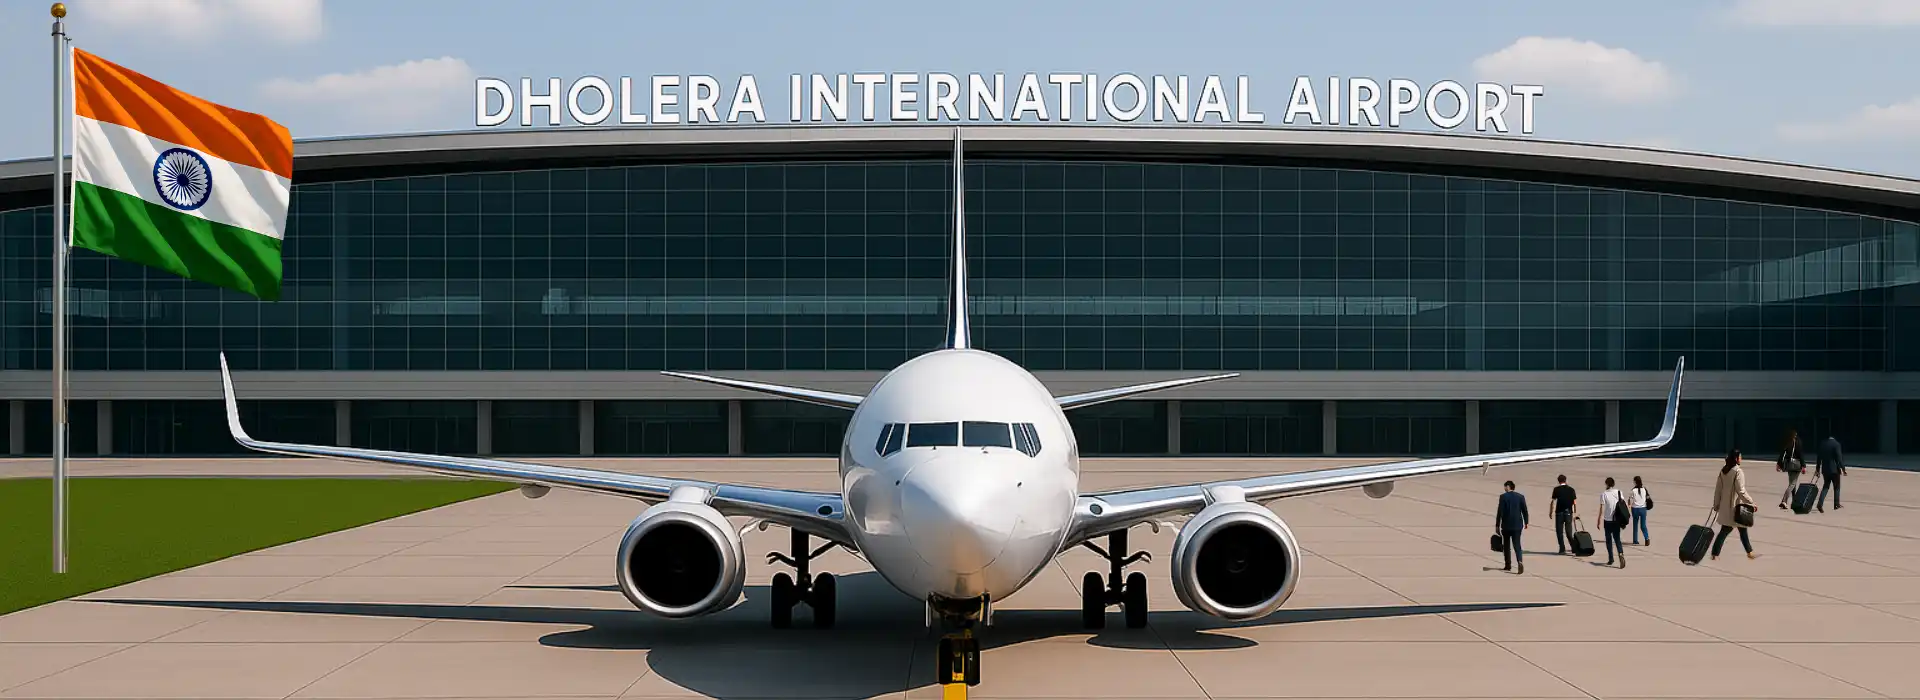
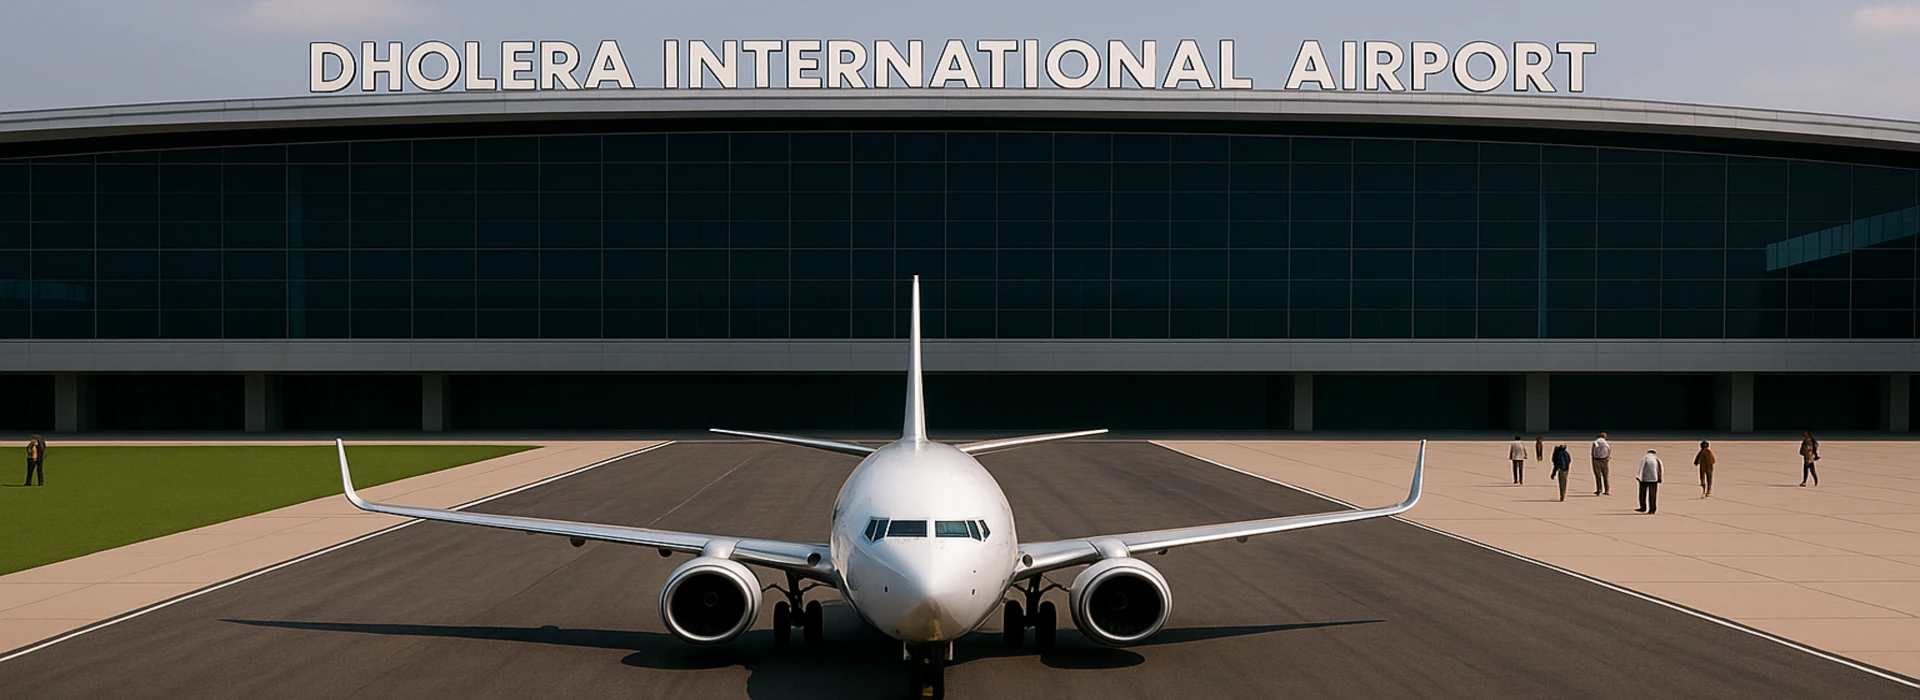
image changes

diff --git a/src/app/components/hero.jsx b/src/app/components/hero.jsx
@@ -1,10 +1,12 @@
 "use client"
 import Image from "next/image";
 import React, { useState, useEffect } from "react";
-import heroBg from "../assets/hero/heroSection.webp";
-import heroBg2 from "../assets/hero/heroSection2.webp";
-import heroBg3 from "../assets/hero/heroSection3.webp";
-import heroM from "../assets/hero/Mhero.webp";
+import heroBg from "../assets/hero/heroSection2.webp";
+import heroBg2 from "../assets/hero/heroSection3.webp";
+import heroBg3 from "../assets/hero/heroSection4.webp";
+import heroM from "../assets/hero/heroSection2M.webp";
+import heroM2 from "../assets/hero/heroSection3M.webp";
+import heroM3 from "../assets/hero/heroSection4M.webp";
 
 const Hero = ({ address, phone, email }) => {
   const [currentSlide, setCurrentSlide] = useState(0);
@@ -19,14 +21,14 @@ const Hero = ({ address, phone, email }) => {
     },
     {
       desktopImage: heroBg2, 
-      mobileImage: heroM,   
+      mobileImage: heroM2,   
       title: "Luxury Homes & Apartments",
       subtitle: "Exclusive Listings",
       description: "Explore our curated collection of luxury homes and modern apartments in prime locations."
     },
     {
       desktopImage: heroBg3, 
-      mobileImage: heroM,   
+      mobileImage: heroM3,   
       title: "Investment Opportunities",
       subtitle: "Smart Investments",
       description: "Maximize your returns with our carefully selected investment properties and expert market insights."
